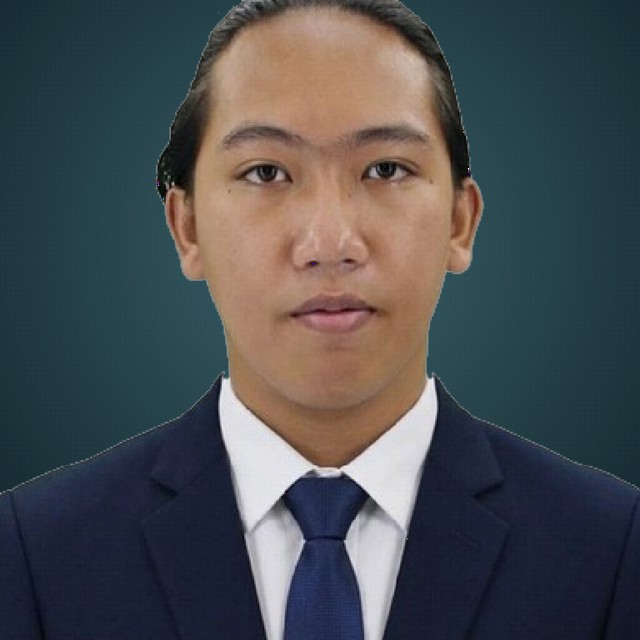
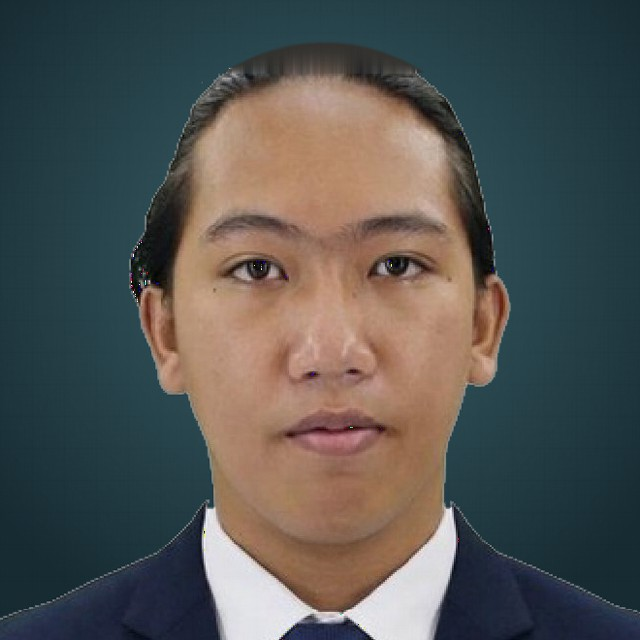
Reframe hero photo as formal 2x2; add elementary to education

diff --git a/index.html b/index.html
@@ -305,6 +305,11 @@
             <h3>Junior High School</h3>
             <p>Christian Faith Montessori</p>
           </li>
+          <li>
+            <p class="timeline__when mono">2011 — 2017</p>
+            <h3>Elementary</h3>
+            <p>Christian Faith Montessori</p>
+          </li>
         </ol>
       </div>
     </section>
